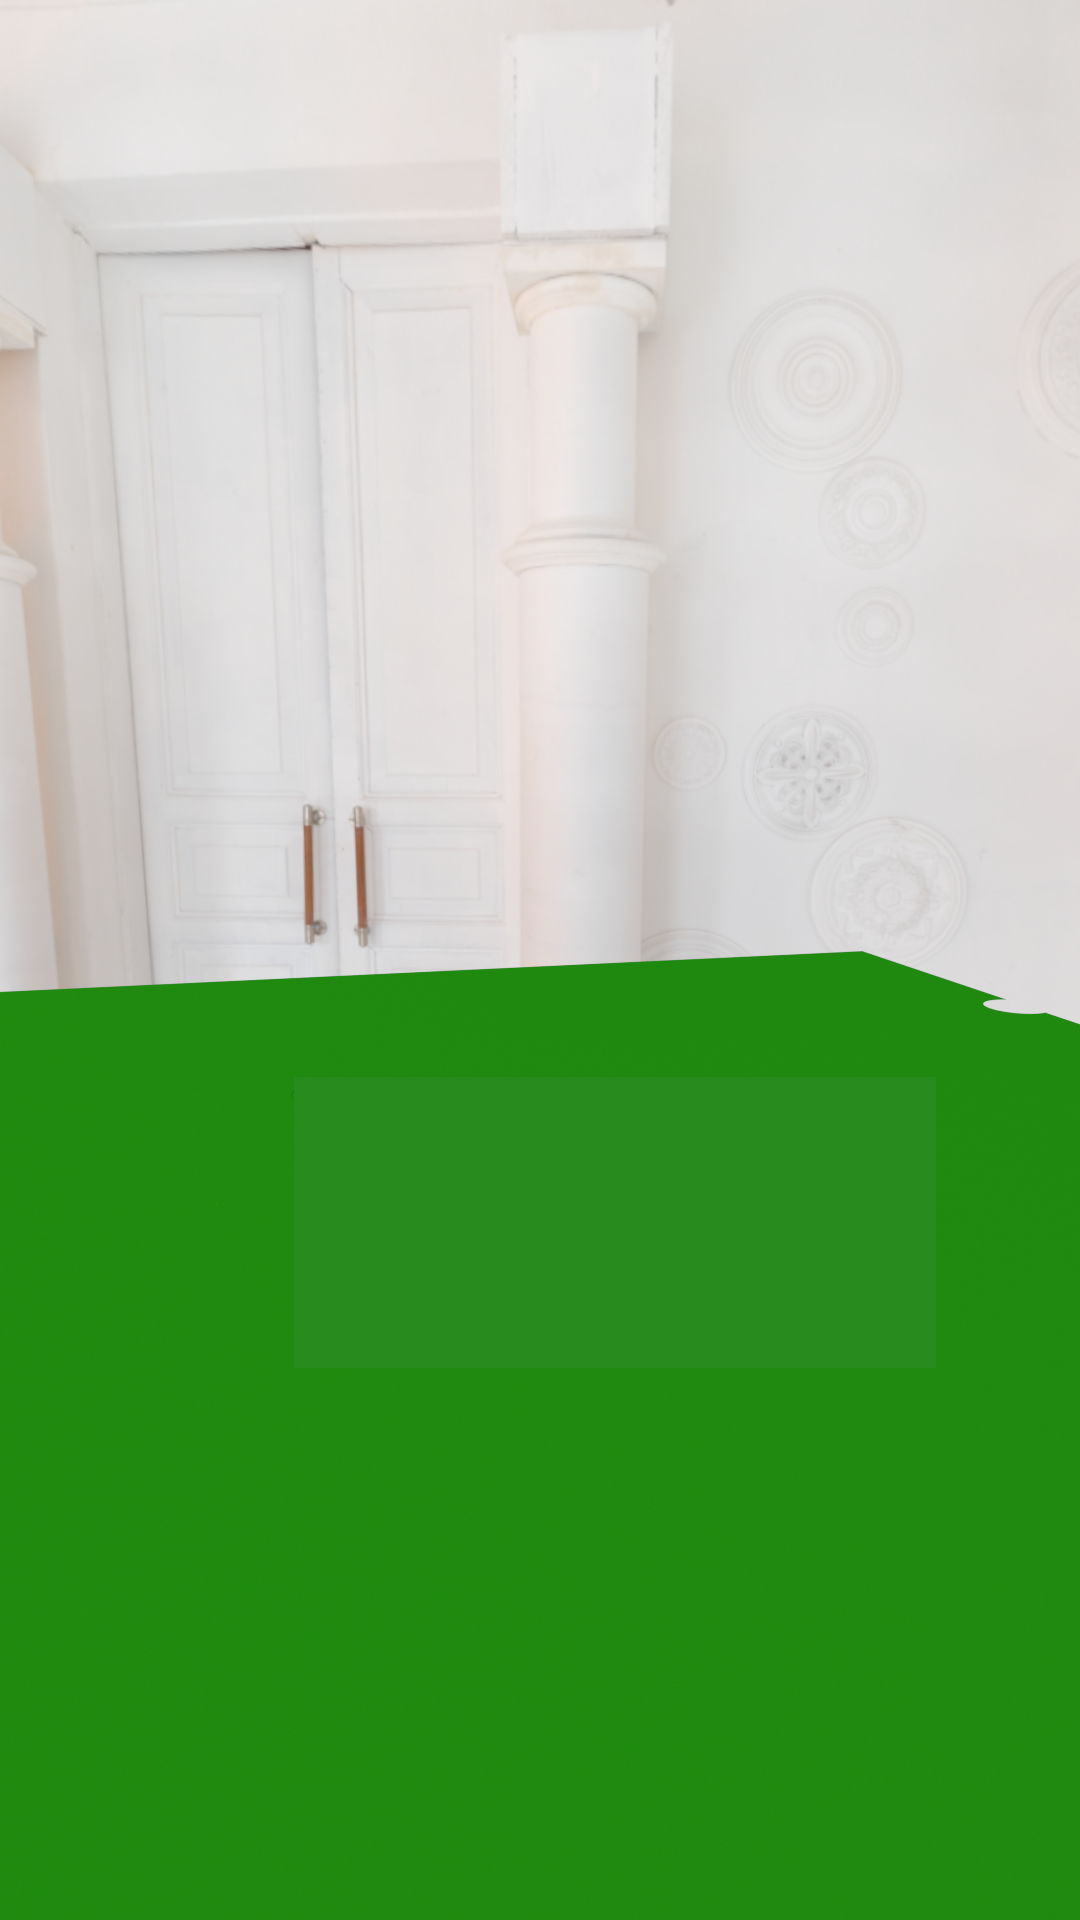
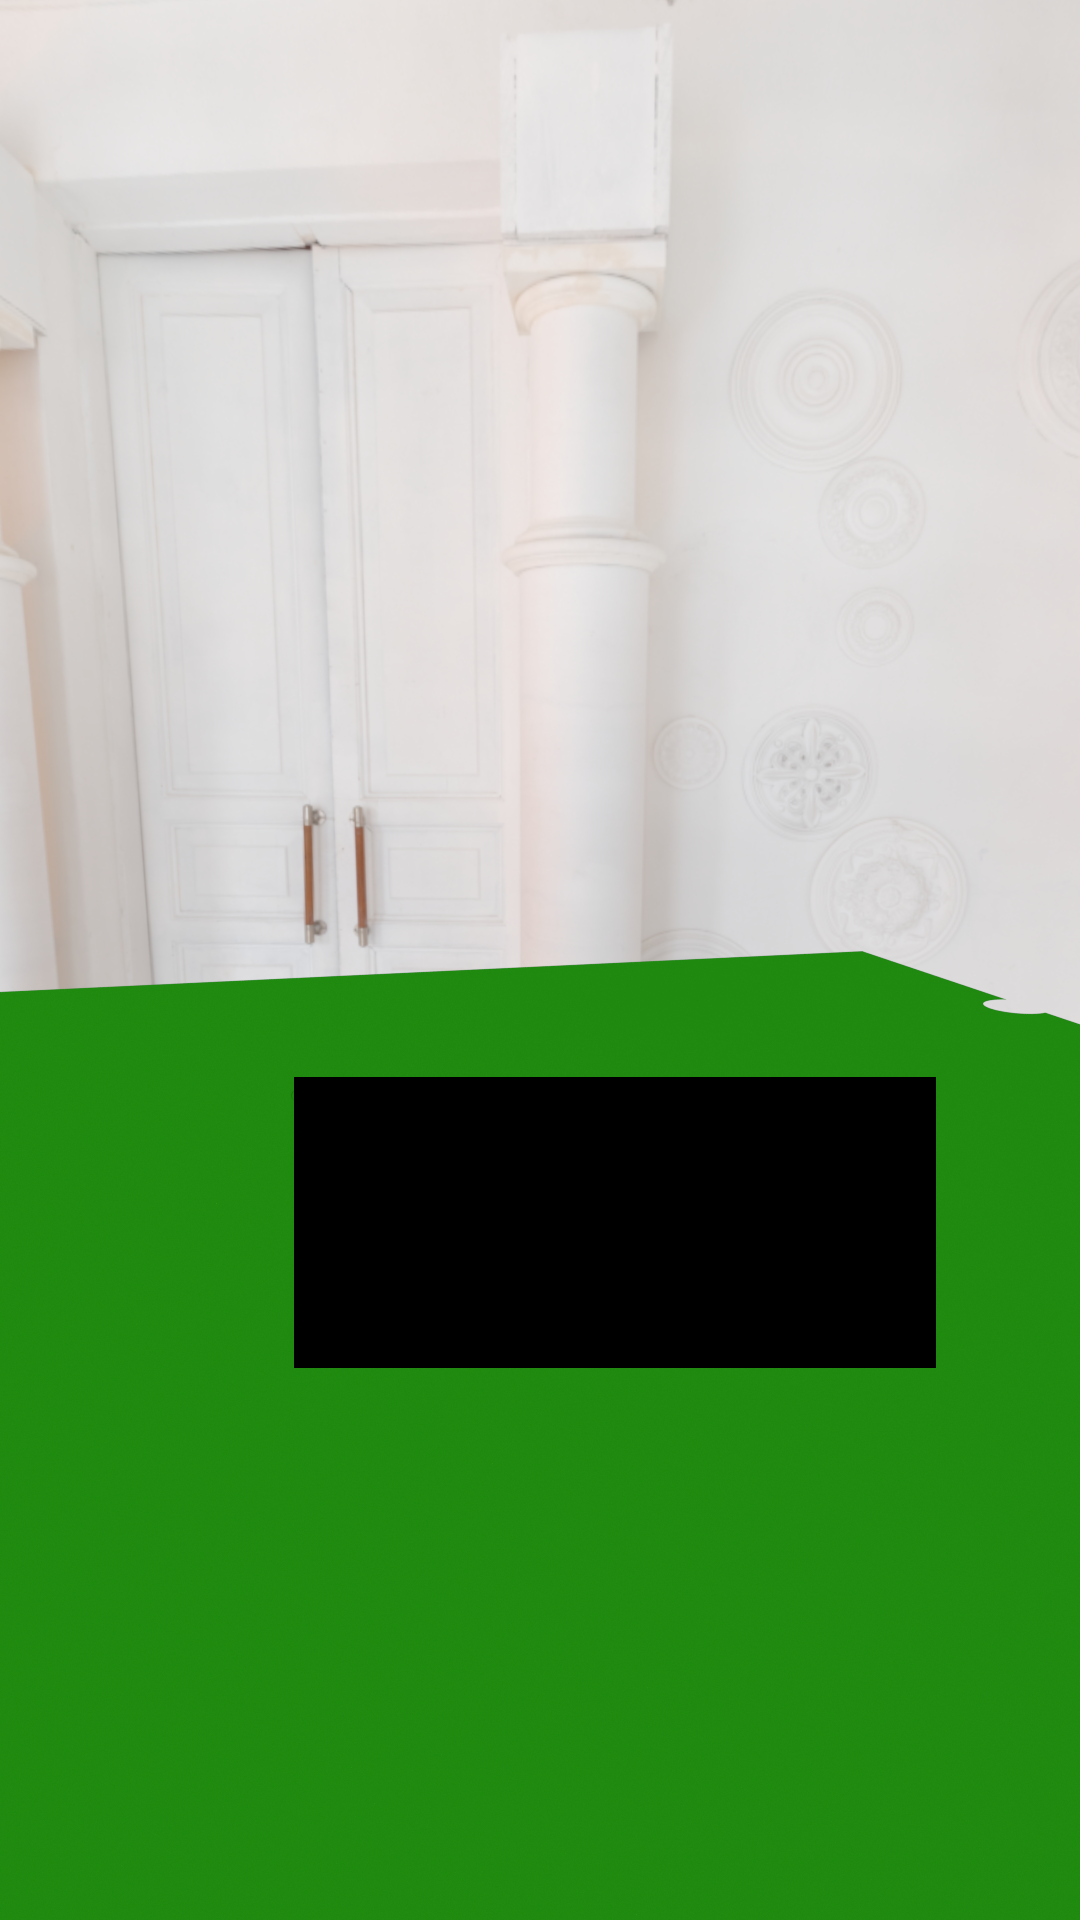
modified:   README.md 	modified:   renders/2/b_FilmCameraView.png

Changed region(s): [[0.275, 0.5625, 0.8861, 0.7188]]

diff --git a/README.md b/README.md
@@ -24,6 +24,18 @@ We need to calculate the FILM_VECTORS, which are translation and rotation vector
 Even as the FILM_CAMERAs begin to move and rotate, our objective remains to accurately track the position and rotation of the FILM_CAMERA in the FLOOR_TARGET coordinate system, regardless of its visibility. To achieve this, we need to establish a chain of reference:  
 FLOOR_TARGET -> TRACKING_CAMERA -> FILM_TARGET -> FILM_VECTORS  -> FILM_CAMERA
 Consequently, we need a method that allows us to compute the FILM_CAMERA's position and rotation vectors in the FLOOR_TARGET coordinate system, even when the FLOOR_TARGET is out of sight of the FILM_CAMERA.  
-![Production stage](./assets/scheme_obstackle.png)<br>
+<div align="center">
+<img src="./assets/scheme_obstacle.png"><br>
+<table style="border: none;">
+    <tr>
+        <th style="border: none;">Tracking camera</th>
+        <th style="border: none;">Film camera</th>
+    </tr>
+    <tr>
+        <td style="border: none;"><img src="./renders/2/TrackingCameraView.png" width="300"></td>
+        <td style="border: none;"><img src="./renders/2/FilmCameraView.png" width="300"></td>
+    </tr>
+</table>
+</div>
 ## What we have
 ...
